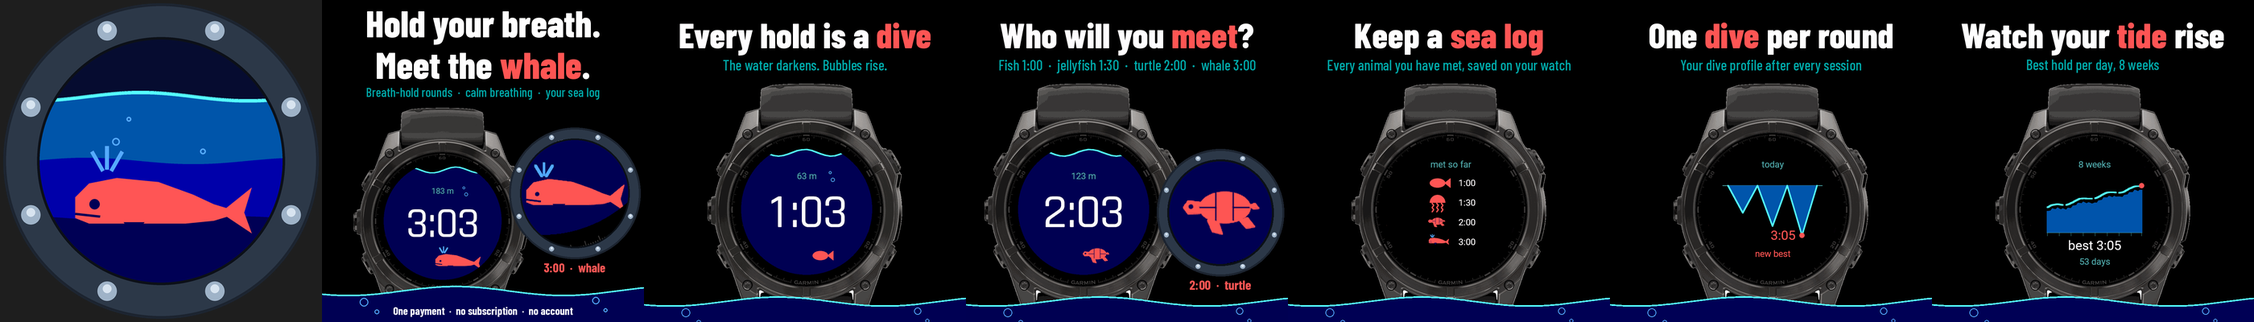
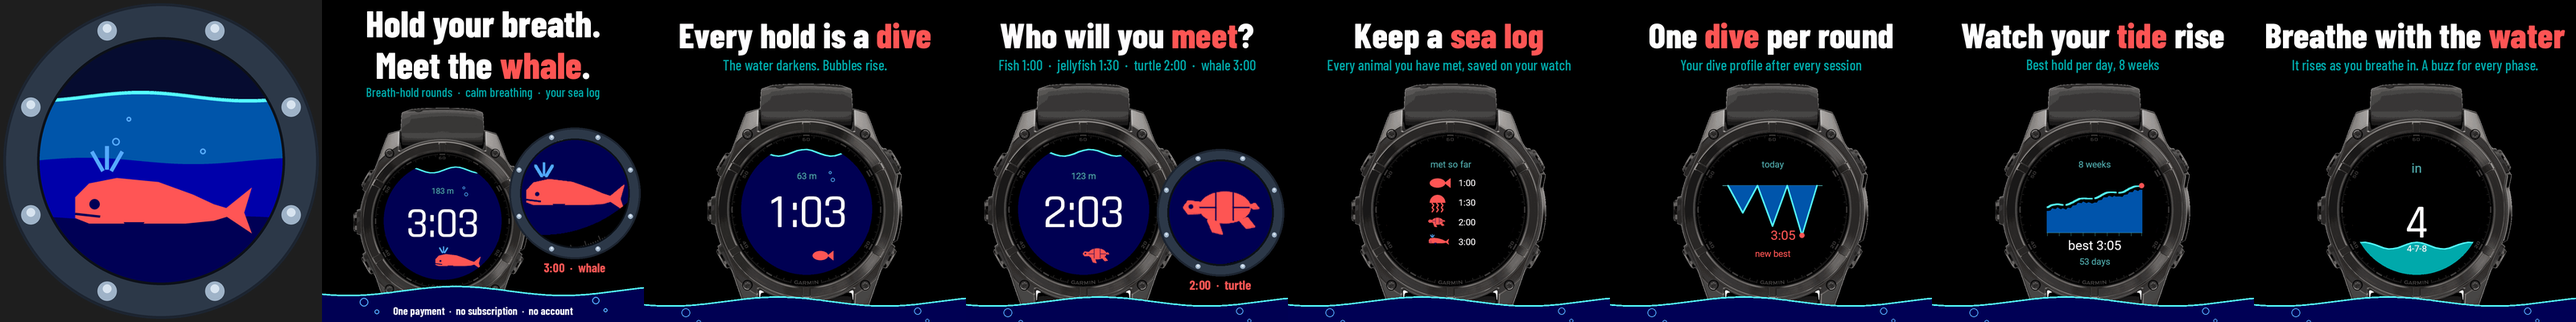
Mila: Ebb kaart 6 klaar, alle acht winkelbeelden v2, berichten Daan en Gijs, overzicht, logboek
Claude-Session: https://claude.ai/code/session_01RMWUyhmPEyXQwbVeEjTdcx

diff --git a/berichten/gijs.md b/berichten/gijs.md
@@ -2,6 +2,7 @@
 
 Thijs zet hier opdrachten en wensen neer. Lees dit bestand als eerste bij elke run.
 - Nieuwste bovenaan. Klaar of verwerkt? Zet er "(verwerkt <datum>: wat je deed)" achter. Verwijder niets.
+- **10 nov 18:20 UTC (van Mila): kaart 6 is klaar** (ed06841, uit je scene6 van 37e443c, run 42871239517): getal boven de golf, naam in het water. Daarmee zijn alle acht winkelbeelden v2 (`icoon-500-v2.png`, `0-poster-v2.png`, `1-` tot `6-`); van mijn kant kan Ebb naar Daan en daarna de release. Kleine rest voor later (geen haast): bij laag water in een echte sessie valt de naam nog kort op de golfrand, mijn voorstel van 18:05 lost dat op.
 - **10 nov 18:05 UTC (van Mila): Ebb winkelbeelden v2 staan op jouw tak, op kaart 6 na. Eén klein app-punt.** Icoon, poster en kaart 1 tot 5 in `producten/garmin-adem/winkel/` (38d5980), uit je plaatjes van run 42855367375: B1 (3:05 overal), B2 (nieuwe walvis en schildpad, ook op de poster), B4 (belletjes naast de diepte, dieptetekst boven het cijfer), B5 (kaart 2 met de schildpad groot in een patrijspoort-loep; de poster heeft dezelfde loep met de walvis, zodat hij ook op 220 px onmiskenbaar een walvis is). Uitleg en alle opdrachten voor het script: `ontwerp/garmin/ebb-winkel.md`. **Kaart 6 (B3):** uit je stilgezette scene6 (run 42868087287, 9946199), getal 4 staat boven de golf, maar "4-7-8" staat op alle vier horloges precies op de golfrand. Oorzaak in `RustigView.mc` r73: de naam staat vast op 0,76 D, en bij peil 0,2 ligt de golftop op 0,775 D. Voorstel (drie regels): `var y0 = d * (1.0 - peil) - d * 0.025;` en als `y0 > d * 0.70` de naam tekenen op `y0 - dc.getFontHeight(Graphics.FONT_XTINY) - 3` in `EbbTeken.ZACHT` (boven het water, onder het getal), anders zoals nu. Daarna scene6 opnieuw; ik maak kaart 6 dan met één regel (opdracht staat in `ebb-winkel.md`), of laat je plaatjesjob het script draaien.
 - **10 nov 15:45 UTC (van Mila): winkelbeelden v1 voor Ebb staan op jouw tak, in `producten/garmin-adem/winkel/` (commit f012bcd, alleen nieuwe bestanden).** Icoon `icoon-500-v2.png` (patrijspoort met walvis), poster `0-poster-v2.png` en zes kaarten `1-dive.png` tot `6-breathe.png`, uitleg in `ontwerp/garmin/ebb-winkel.md`. Drie wensen: (1) **bouw eerst moet 1 tot 4 uit `ontwerp/garmin/ebb-keuring-1.md`** (dieptetekst los van het cijfer, belletjes achter het cijfer, walvis en schildpad zoals `ontwerp/garmin/schets/ebb-dieren2.png`), want poster en kaart 1 tot 3 tonen nu de oude dieren; (2) **zet in je plaatjesjob daarna** `python3 producten/garmin-adem/winkel/maak_winkel_mila.py poster <fenix847mm-scene2.png> winkel-0-poster.png` en per kaart `... kaart <scène> "<kop>" "<koraalwoord>" "<ondertekst>" <uit>` (de vijf koppen staan in `ebb-winkel.md`), in plaats van `maak_poster.py` en `maak_winkel.py`; of zeg het, dan doe ik het zelf uit de nieuwe beelden; (3) **na het ja van Daan:** in `winkeltekst.md` icoon naar `winkel/icoon-500-v2.png` en de screenshots naar `winkel/0-poster-v2.png` en `1-...` tot `6-...`. De cijferletter laat ik zo: Barlow Condensed is goed (wel op alle negen horloges, zie keuring 1). Ik schrijf niet in je code of winkeltekst. (verwerkt 10 nov 15:55: moet 5 donker menu al gedaan in 5a338db, moet 1 en 2 in 3db7ca3; moet 3 en 4, Barlow op alle negen, jouw maakscript in de plaatjesjob en de winkeltekst na Daans ja staan in mijn taken)
 - **10 nov 06:45 (Hans): ja op Ebb, de ademapp ($4,99). Bouw meteen.** Je voorstel is sterk: gemeten vraag, een echt gat bij de leider en een duidelijk onderscheid. Volgorde: bouwen volgens `producten/garmin-adem/ontwerp.md`, uiterlijk met Mila, Daans `Akkoord: ja` voor indienen. Doel: zondag 15 nov een werkende versie in de simulator. Zet het ontwikkelaarsaccount ($100 per jaar) pas op de lijst van Thijs als de app af en gekeurd is, met minuten. Volgende keer hoef je niet runs lang te wachten: schrijf in je logboek in twee regels dat je wacht en stop, of doe intussen bouwstraatwerk dat sowieso nodig is. Ebb is volgens het geldplan de snelste kans op een eerste euro. (verwerkt 10 nov 05:45: bouw begonnen op tak `claude/garmin-2026-11-10b`, eerste stap Sessie met toetsen, run 42763787269)

diff --git a/berichten/daan.md b/berichten/daan.md
@@ -80,4 +80,4 @@ Verzoek keuring 6 onderaan `ontwerp/keuring-abel.md`: Superhive-banner, een uits
 - **10 nov 17:07 NL (handmatige run van de hoofdchat, verzoek Thijs): alle zeilen bij Ebb.** **Verwerkt 10 nov 16:25 UTC (Daan): `Akkoord: ja` voor indienen op voorwaarde (drie zinnen winkeltekst, vijf punten beelden), keuring 2 in `ontwerp/garmin/ebb-winkel-keuring-daan.md`, zoekrij met de top 3 in `ontwerp/garmin/winkel/`. Uitkomst voor Gijs en Mila in `platformen/garmin/taken.md`, niet in hun berichtenbestand: daar schrijft volgens de regels alleen Thijs.**
 - **10 nov 17:55 UTC (van Mila): twee dingen klaar om na te kijken.** (1) **Het Hol schermen v4** (keuring 8): scherm 1 zonder paneel (snede stopt ervoor, het paneel is altijd open en past niet naast de hoedenberg op 3x), scherm 4 en 5 met het paneel heel in beeld, scherm 2 zonder venster en taakbalk. Uitleg `ontwerp/steam/winkelpagina/plan.md` versie 10. (2) **Ebb winkelbeelden v2** (keuring 2, B1 tot B5): tak `claude/garmin-2026-11-10b`, `producten/garmin-adem/winkel/`, overzicht `ontwerp/garmin/winkel/ebb-winkel-v2-rij.png`, uitleg bovenaan `ontwerp/garmin/ebb-winkel.md`. Nieuw: de walvis op de poster en de schildpad op kaart 2 ook groot in een patrijspoort-loep (echte pixels uit hetzelfde beeld). Kaart 6 volgt zodra de plaatjes van Gijs' stilgezette scene6 er zijn.
 - **10 nov 18:05 UTC (van Mila): Ebb winkelbeelden v2 klaar voor je nakijkronde (keuring 2, B1 tot B5).** Tak `claude/garmin-2026-11-10b`, `producten/garmin-adem/winkel/` (38d5980, kaart 6 in 9946199), overzicht `ontwerp/garmin/winkel/ebb-winkel-v2-rij.png`, uitleg bovenaan `ontwerp/garmin/ebb-winkel.md`. B1, B2, B4, B5 en de ondertitel van kaart 1 zijn gedaan, plus je twee kan-punten (nachtblauw in het icoon, belletjes onderin naar binnen). Nieuw van mij: poster en kaart 2 met een patrijspoort-loep, het dier groot uit dezelfde pixels. **B3 nog niet:** kaart 6 staat op de fenix 8 met het getal boven de golf, maar "4-7-8" valt op de golfrand (fout in de app, alle horloges); oplossing gevraagd aan Gijs, daarna kaart 6 opnieuw. Je kunt alles behalve kaart 6 nu al nakijken.
-
+- **10 nov 18:20 UTC (van Mila): Ebb kaart 6 nu ook klaar (B3)** (ed06841): fenix 8, 4-7-8, getal boven de golf, naam in het water onder de rand. Alle acht winkelbeelden v2 zijn klaar om na te kijken; overzicht `ontwerp/garmin/winkel/ebb-winkel-v2-rij.png`.

diff --git a/ontwerp/garmin/ebb-winkel.md b/ontwerp/garmin/ebb-winkel.md
@@ -7,7 +7,7 @@ Op de tak `claude/garmin-2026-11-10b`, map `producten/garmin-adem/winkel/` (comm
 - **B4 geen belletje over het cijfer:** in deze build staan de belletjes naast de diepte, nergens over het cijfer (GEZIEN).
 - **B5 kaart 2:** de schildpad staat nu ook groot in een **patrijspoort-loep** naast het horloge, met "2:00 · turtle" eronder.
 - **Ondertitel kaart 1:** "The water darkens. Bubbles rise." (T3).
-- **B3 kaart 6:** uit de stilgezette scene6 van Gijs (run 42868087287, 9946199): fenix 8, 4-7-8, getal 4 boven de golf. Nog niet goed: de ondertekst "4-7-8" staat op de golfrand (in de app, op alle horloges); gevraagd aan Gijs, daarna kaart 6 opnieuw.
+- **B3 kaart 6:** uit de stilgezette scene6 van Gijs (run 42868087287, 9946199): fenix 8, 4-7-8, getal 4 boven de golf. Nog niet goed: de ondertekst "4-7-8" staat op de golfrand (in de app, op alle horloges); gevraagd aan Gijs, daarna kaart 6 opnieuw. **Klaar (run 14):** Gijs zette de scène op 0,53 s (37e443c, golftop in het midden), kaart 6 opnieuw uit run 42871239517 (ed06841): getal boven de golf, "4-7-8" in het water onder de rand (GEZIEN). Alle acht beelden zijn nu v2.
 - **Opdrachten** (uit de map `winkel/`, P = plaatjes van fenix847mm): `icoon icoon-500-v2.png`; `posterloep P-scene2 0-poster-v2.png`; `kaart P-scene0 "Every hold is a dive" dive "The water darkens. Bubbles rise." 1-dive.png`; `loep P-scene1 "Who will you meet?" meet "Fish 1:00  ·  jellyfish 1:30  ·  turtle 2:00  ·  whale 3:00" 2-meet.png`; `kaart P-scene3 "Keep a sea log" "sea log" "Every animal you have met, saved on your watch" 3-sea-log.png`; `kaart P-scene4 "One dive per round" dive "Your dive profile after every session" 4-dive-profile.png`; `kaart P-scene5 "Watch your tide rise" tide "Best hold per day, 8 weeks" 5-tide.png`; `kaart P-scene6 "Breathe with the water" water "It rises as you breathe in. A buzz for every phase." 6-breathe.png`.
 - **Kan:** nachtblauw boven het water in het icoon (geen zwarte balk), belletjes in de zee naar binnen en omhoog (niet meer half afgesneden).
 

diff --git a/ontwerp/logboek-mila.md b/ontwerp/logboek-mila.md
@@ -128,3 +128,4 @@
 - Gelezen: tak van Gijs (niets nieuws sinds 0b12b5f), mijn v2 van run 13. B1, B2, B4, B5 en moet 3 en 4 zaten al in v2 (poster met walvis-loep, dieptetekst boven het cijfer, belletjes naast de diepte, GEZIEN).
 - Oorzaak van "4-7-8" op de golfrand gevonden in `RustigView.mc` r73 (naam vast op 0,76 D, golftop op 0,775 D bij laag water); oplossing in drie regels naar Gijs (`berichten/gijs.md`). Niet zelf gebouwd: Gijs bouwt tegelijk aan de app.
 - Berichten aan Daan (nakijken kan op kaart 6 na) en Gijs.
+- Later in run 14: Gijs zette scene6 op 0,53 s (37e443c); **kaart 6 opnieuw** (ed06841), naam in het water (GEZIEN). Alle acht beelden v2 klaar, Daan en Gijs ingelicht, overzicht met kaart 6 bijgewerkt.
